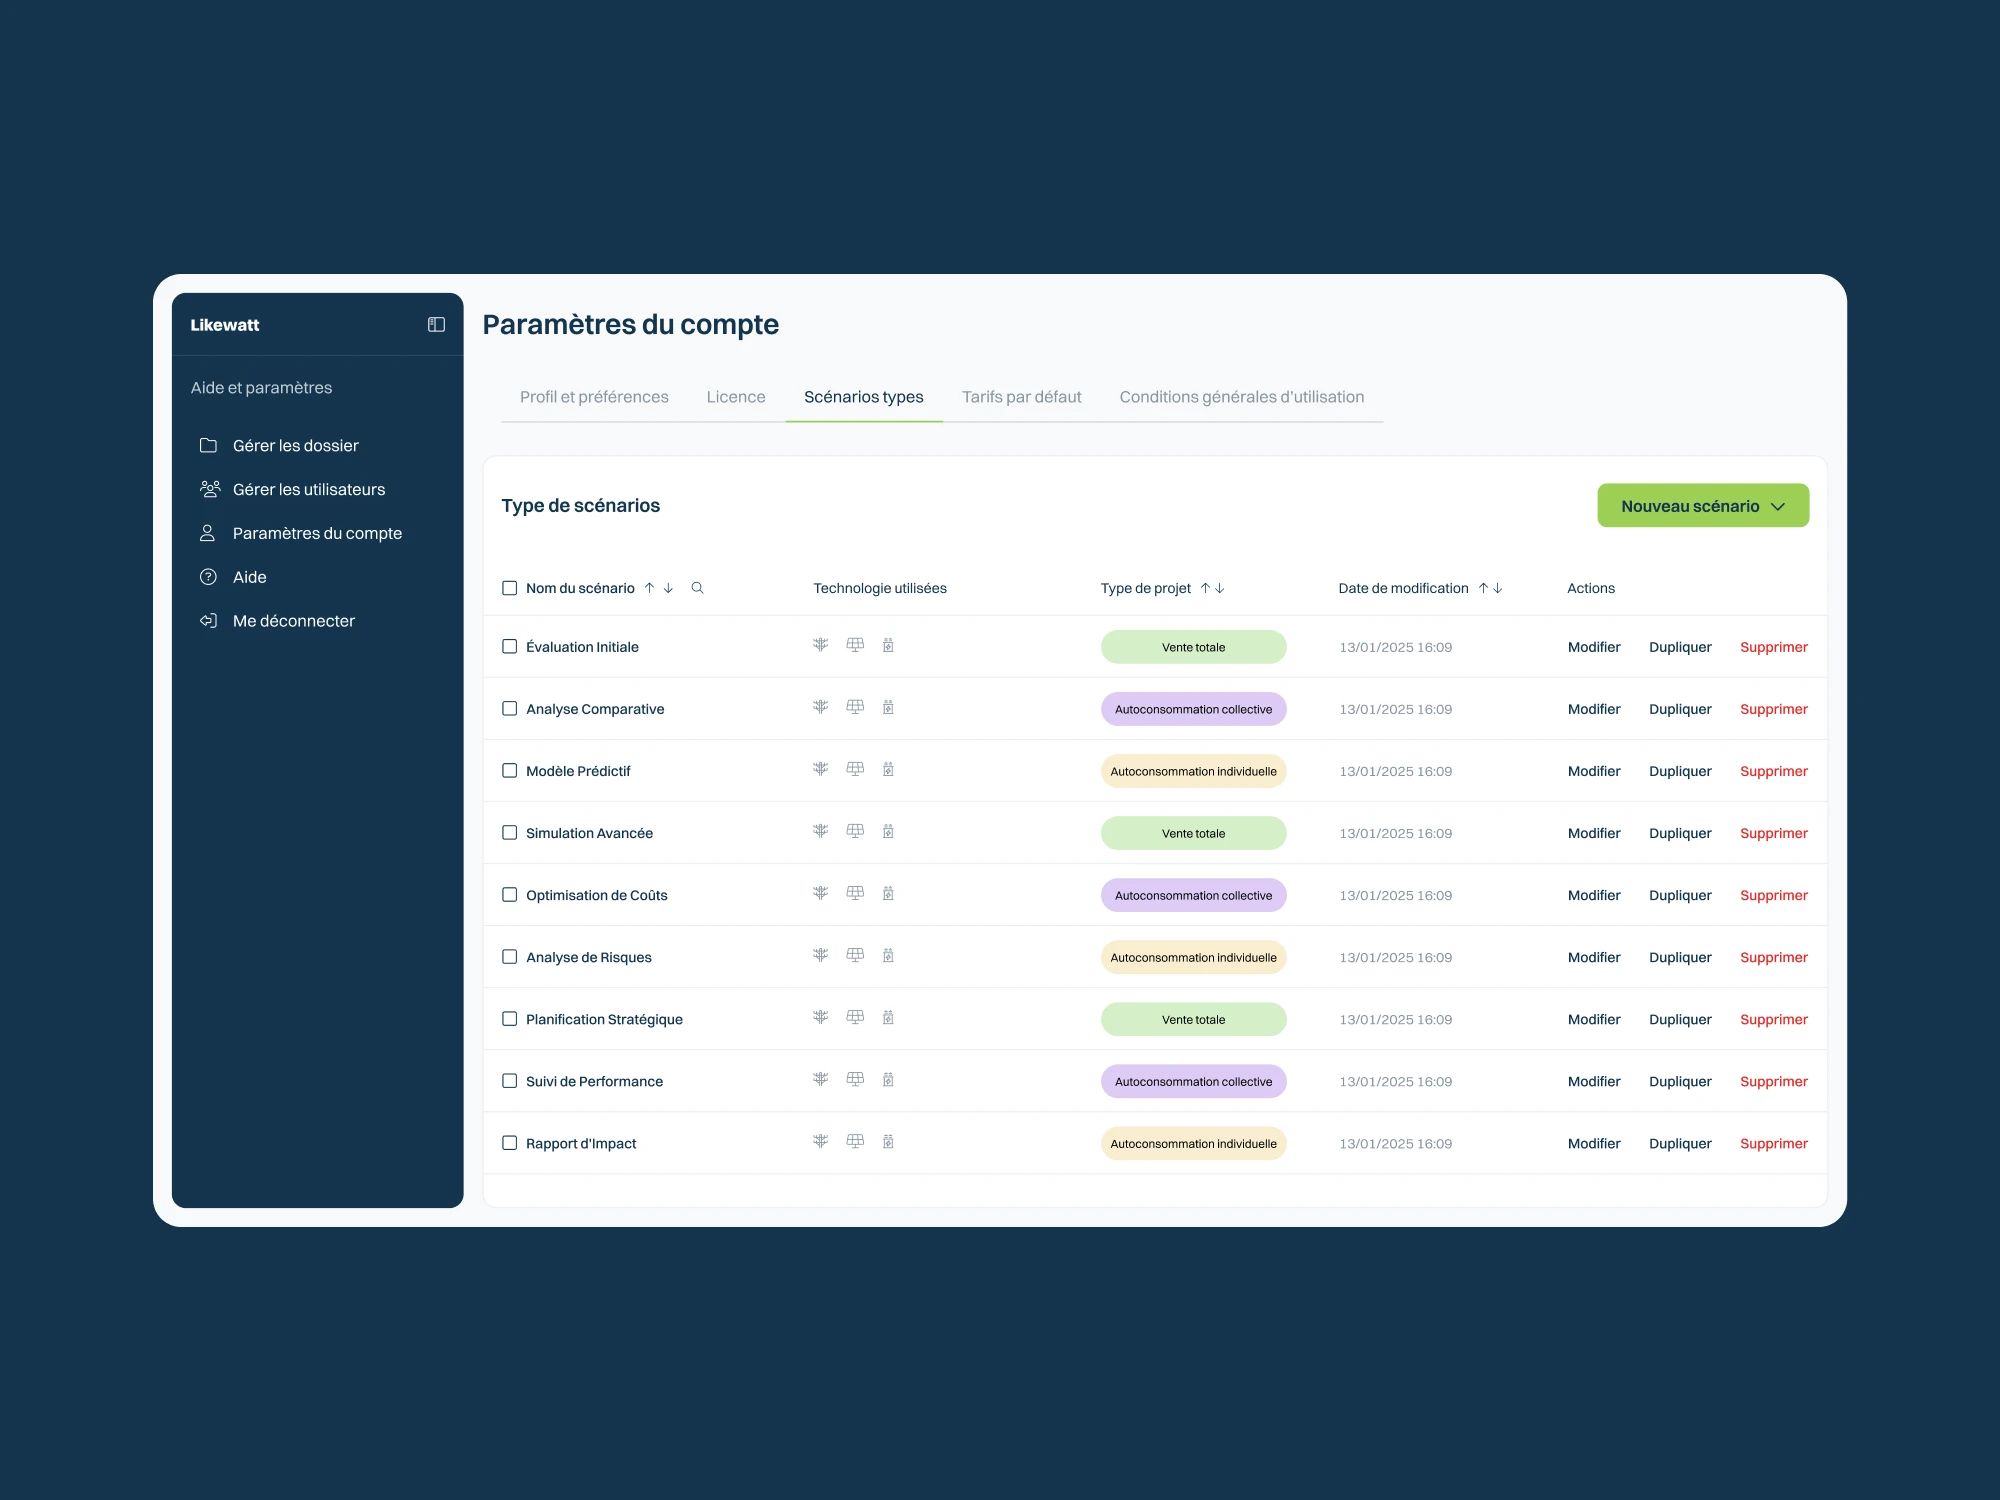
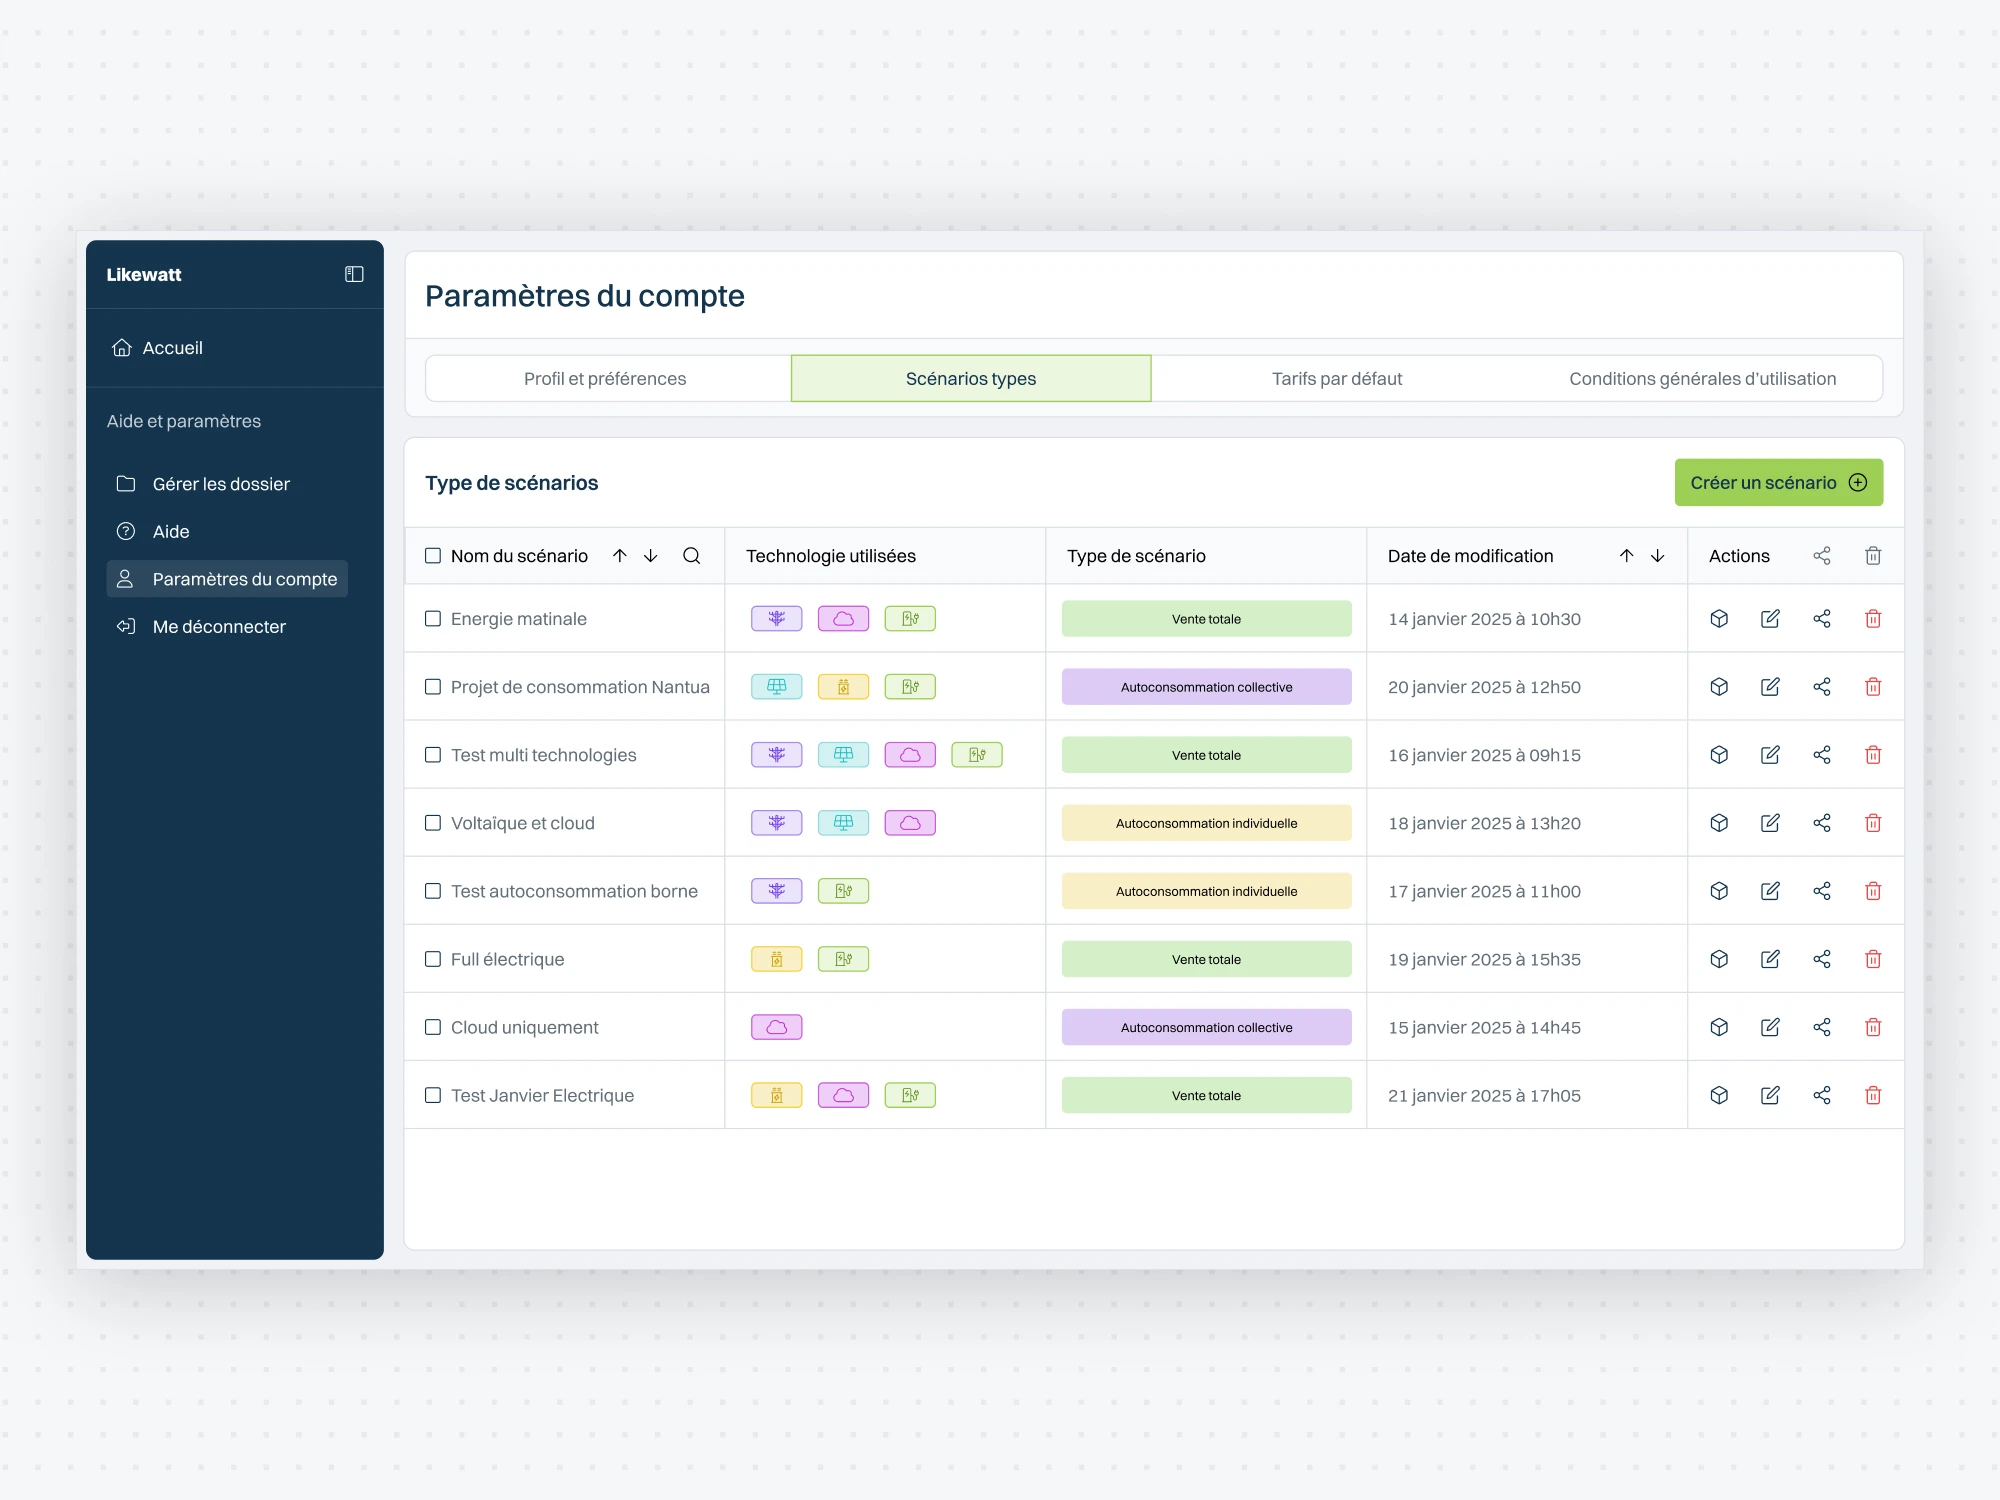
Modifs projets Likewatt

diff --git a/src/content/projets/likewatt.md b/src/content/projets/likewatt.md
@@ -7,7 +7,7 @@ order: 1
 wide: true
 
 cardImage: "/images/projets/likewatt/cover.webp"
-cardDescription: "Comprendre les points de douleurs utilisateurs, développeurs et commercial d'un logiciel d'analyse de consommation éléectrique. Améliorer le parcours utilisateurs et refondre graphiquement l'outil."
+cardDescription: "Comprendre les points de douleurs utilisateurs, développeurs et commercial d'un logiciel d'analyse de consommation électrique. Améliorer le parcours utilisateurs et refondre graphiquement l'outil."
 
 metaItems:
   - label: "Année"
@@ -22,29 +22,55 @@ blocs:
     alt: Mise en avant projet Likewatt
 
   - type: text
-    contenu: Lors de nos échanges avec les équipes de Likewatt, plusieurs problèmes signalés par leurs clients sont ressortis. Une navigation peu intuitive, un scroll qui ne permettait pas de comprendre qu’il restait des informations à découvrir, ainsi qu’un système de drag-and-drop peu clair pour organiser les données. Nous sommes donc repartis sur des bases solides en simplifiant la navigation, en supprimant le scroll au profit d’onglets plus explicites et en créant de micro-interactions destinées à faciliter l’export des données.
+    contenu: Lors de nos premiers échanges avec LikeWatt, les utilisateurs ont remonté plusieurs points de douleur liés à l'interface. En effet, le parcours existant mettait en avant les différentes phases d'un projet, mais ne permettait pas de faire le pont entre ces phases.
 
   - type: image
-    src: /images/projets/likewatt/screen-atelier.webp
+    src: /images/projets/likewatt/user-flow.webp
     alt: User Flow
 
+  - type: text
+    contenu: Une fois l'user flow réalisé, trois points de douleur sont apparus. Le premier, dans la partie des exports, ne permettait pas d'exporter les différentes analyses au premier coup d'œil, et le système de sélection reposait sur un drag and drop peu intuitif. Le deuxième point de frustration était lié à la création d'un projet, étape essentielle de l'application ":" le formulaire était long et peu ergonomique selon les options choisies. Enfin, dernier point de friction majeur, la création d'un scénario, que nous avons simplifiée en refondant l'interface et en offrant une vision plus claire et plus lisible de la « pieuvre ».
+
   - type: image
-    src: /images/projets/likewatt/screen-projet-likewatt.webp
-    alt: Mise en avant projet Likewatt
+    src: /images/projets/likewatt/mockup-analyse.webp
+    alt: Mockup de l'écran analyse
 
   - type: image
     src: /images/projets/likewatt/screen-login.webp
-    alt: Ecrans d'applications
+    alt: Page de connexion de LikeWatt
 
   - type: image
-    src: /images/projets/likewatt/screen-analyse.webp
-    alt: Écran d'analyse de la consommation électrique d'un panneau solaire
+    src: /images/projets/likewatt/screen-parametres.webp
+    alt: Ecran de paramétrage du compte LikeWatt
+
+  - type: text
+    contenu: Les maquettes mettent l'accent sur la clarté, et de nombreux outils de navigation ont été revus pour afficher les informations de manière optimale. Le long scroll peu intuitif laisse place à des onglets séparés. La navigation se fait désormais par projet, et les trois phases principales sont clairement identifiées.
+
+  - type: galerie
+    colonnes: 2
+    images:
+      - src: /images/projets/likewatt/menu.webp
+        alt: Menu de l'application
+      - src: /images/projets/likewatt/image-panneau-solaire.webp
+        alt: Image de panneau solaire
 
   - type: image
     src: /images/projets/likewatt/screen-application.webp
     alt: Maquette de plusierus écrans de l'application
 
-  - type: image
-    src: /images/projets/likewatt/screen-parametres.webp
-    alt: Écran de paramétrage du compte
+  - type: video
+    src: /images/videos/likewatt/export-pdf.webm
+    alt: Page solutions
+
+  - type: text
+    contenu: L'ajout de panneaux latéraux permet d'afficher du contenu dense tout en gardant une interface claire. Les panneaux sont identifiés grâce à un fond opaque et à leur apparition sur le côté. L'utilisateur sait donc intuitivement où il se situe.
+
+  - type: galerie
+    colonnes: 2
+    images:
+      - src: /images/projets/likewatt/image-panneau-solaire-02.webp
+        alt: Menu de l'application
+      - src: /images/projets/likewatt/image-charts.webp
+        alt: Image de panneau solaire
+
 ---